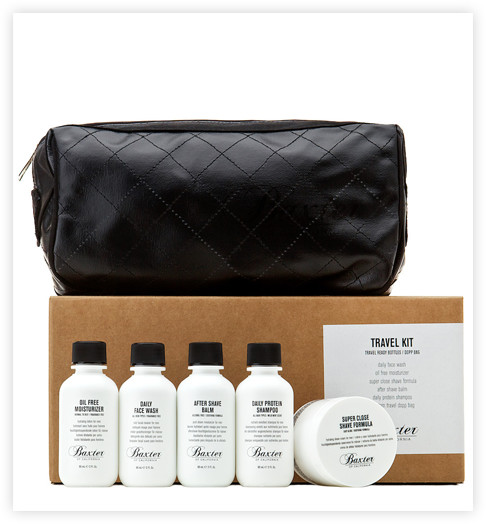
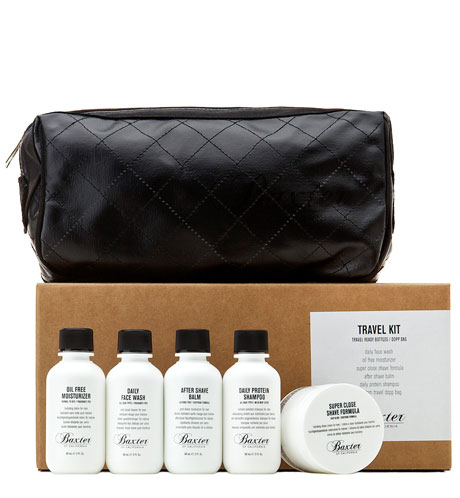
Барбершоп. Сетки
Поменял картинки на странице с товаром. В первый раз нарезал с тенью.

diff --git a/css/style.css b/css/style.css
@@ -4,11 +4,14 @@ body {
 	font-weight: bold;
 	line-height: 24px;
 	color: #000000;
+	min-width: 1200px;
+/*	min-height: 1170px;*/
 }
 
 .page-title {
 	font-size: 30px;
 	line-height: 42px;
+	outline: 1px solid yellow;
 }
 
 .item-title {
@@ -19,4 +22,160 @@ body {
 .content-title {
 	font-size: 24px;
 	line-height: 30px;
+}
+
+.page-header {
+	width: 1200px;
+	margin: 0 auto;
+	outline: 1px solid green;
+}
+
+.page-header .container {
+	min-height: 72px;
+}
+
+.container {
+	width: 940px;
+	padding: 0 10px;
+	margin: 0 auto;
+	outline: 1px solid grey;
+/*	background-color: #ccc;*/
+}
+
+.logo {
+	width: 150px;
+	float: left;
+	outline: 1px solid yellow;
+	margin-right: 5px;
+}
+
+.main-menu {
+	width: 640px;
+	float: left;
+	outline: 1px solid yellow;
+}
+
+.user-block {
+	width: 140px;
+	float: right;
+	outline: 1px solid yellow;
+}
+
+.clearfix::after {
+	content: "";
+	display: table;
+	clear: both;
+}
+.main-menu li {
+	display: inline-block;
+}
+
+main {
+	width: 1200px;
+	margin-right: auto;
+	margin-left: auto;
+	outline: 1px solid green;
+}
+
+main .container {
+	padding-top: 56px;
+	padding-bottom: 50px;
+}
+
+.breadcrumbs {
+	margin-bottom: 50px;
+	outline: 1px solid yellow;
+}
+
+.breadcrumbs li {
+	display: inline-block;
+}
+
+.catalog-filters {
+	float: left;
+	width: 240px;
+	outline: 1px solid yellow;
+}
+
+.catalog {
+	float: right;
+	width: 700px;
+	vertical-align: top;
+	outline: 1px solid yellow;
+}
+
+.catalog-item {
+	display: inline-block;
+	width: 220px;
+	margin-right: 16px;
+	margin-bottom: 20px;
+	outline: 1px solid green;
+}
+.catalog-item:nth-child(3n) {
+	margin-right: 0;
+}
+
+.pagination {
+	clear: both;
+	margin-left: 240px;
+	margin-top: 20px;
+	outline: 1px solid yellow;
+}
+
+.pagination li {
+	display: inline-block;
+}
+
+.page-footer {
+	width: 1200px;
+	min-height: 190px;
+	margin-right: auto;
+	margin-left: auto;
+	padding-top: 60px;
+	padding-bottom: 0px;
+	outline: 1px solid green;
+}
+
+.footer-contacts {
+	float: left;
+	width: 320px;
+	margin-right: 60px;
+}
+
+.footer-social {
+	float: left;
+	width: 180px;
+}
+
+.footer-copyright {
+	float: right;
+	width: 140px;
+}
+
+.item-photos {
+	float: left;
+	width: 460px;
+	outline: 1px solid yellow;
+}
+
+.item-info {
+	float: right;
+	width: 390px;
+	outline: 1px solid yellow;
+}
+
+.in-stock {
+	text-align: left;
+}
+
+.article {
+	text-align: right;
+}
+
+.item-section {
+	outline: 1px solid yellow;
+}
+
+.item-availability {
+	outline: 1px solid yellow;
 }

diff --git a/catalog.html b/catalog.html
@@ -7,7 +7,7 @@
 	</head>
 	<body>
 		<header class="page-header">
-			<div class="container">
+			<div class="container clearfix">
 				<div class="logo">
 					<a href="index.html"><img src="img/inner-logo.png" alt="Barbershop" width="111" height="24"></a>
 				</div>
@@ -32,7 +32,7 @@
 				<li><a href="#">Магазин</a></li>
 				<li class="active">Средства для ухода</li>
 			</ul>
-			<div class="catalog-container">
+			<div class="catalog-container clearfix">
 				<aside class="catalog-filters">
 					<form action="http://echo.htmlacademy.ru" method="post">
 						<div class="filter-title">Производители:</div>
@@ -99,7 +99,7 @@
 					</article>
 					<article class="catalog-item">
 						<a href="#"><img src="img/suavecito.jpg" alt="Гель для волос Suavecito" width="220" height="165"></a>
-						<a href="#"><h1 class="item-title">Гель для волос "Suavecito"</h1></a>
+						<a href="#"><h1 class="item-title">Гель для волос <br>"Suavecito"</h1></a>
 						<div class="order">
 							<div class="price">290 руб.</div>
 							<a class="btn buy-btn">Купить</a>

diff --git a/catalog-item.html b/catalog-item.html
@@ -25,7 +25,7 @@
 				</div>
 			</div>
 		</header>
-		<main class="container">
+		<main class="container clearfix">
 			<h1 class="page-title">Набор для путешествий "Baxter of California"</h1>
 			<ul class="breadcrumbs">
 				<li><a href="#">Главная</a></li>
